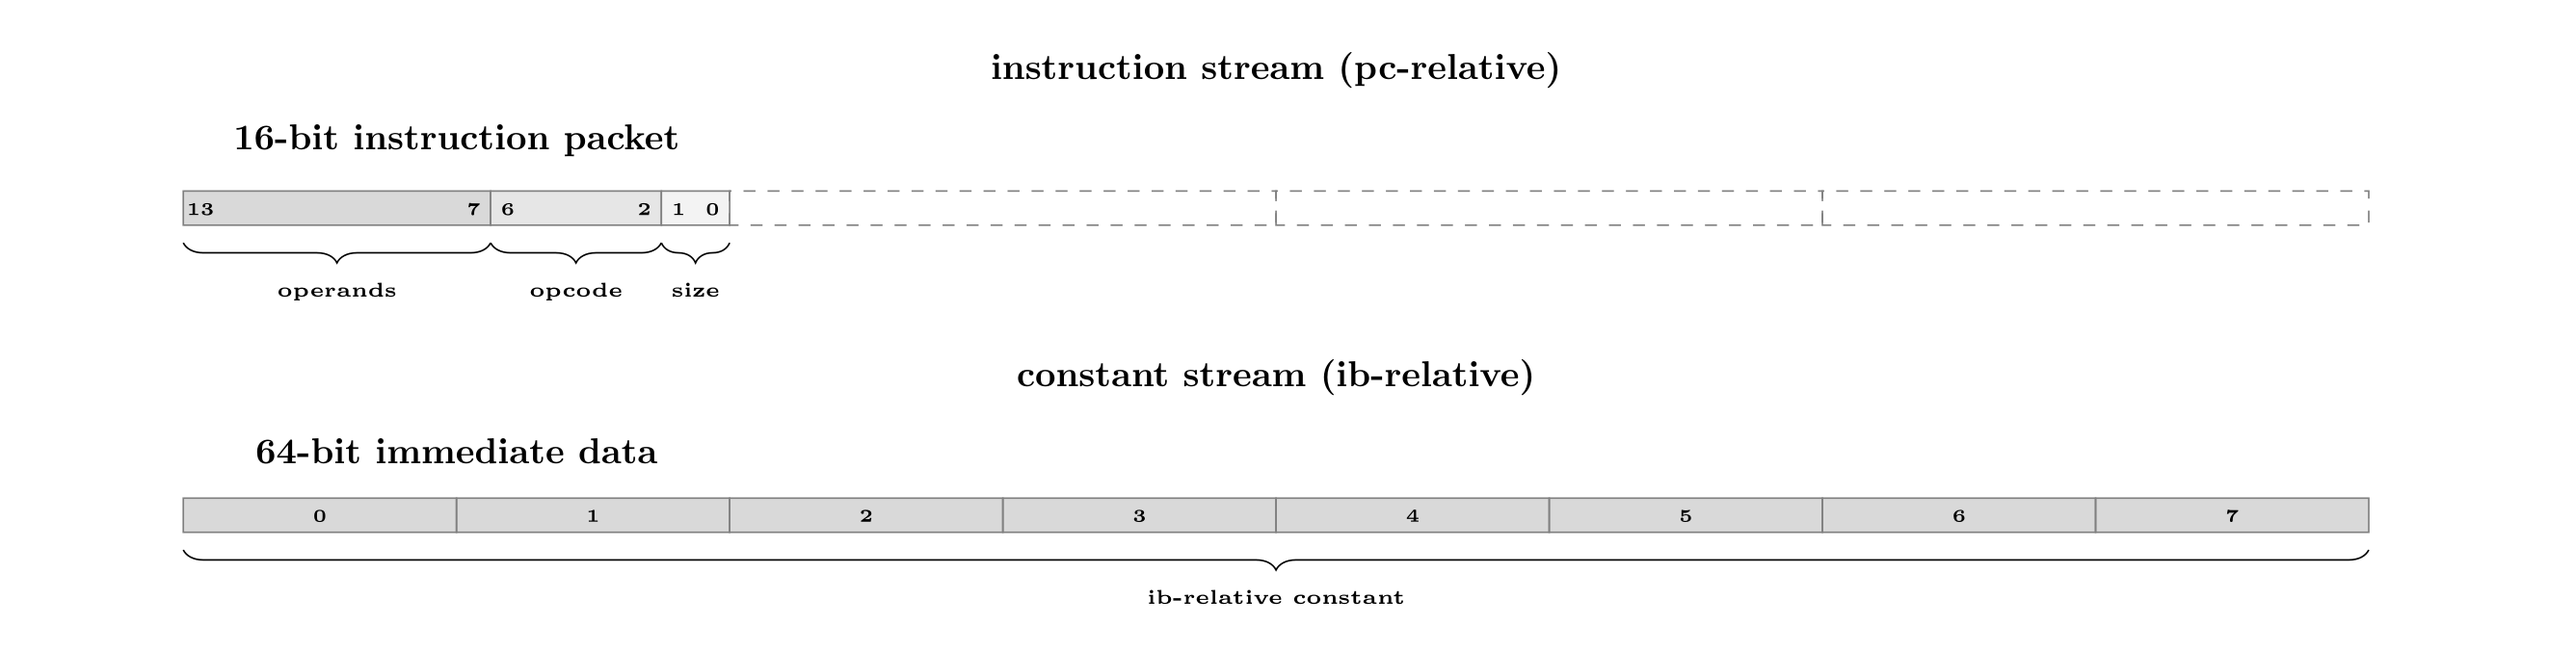
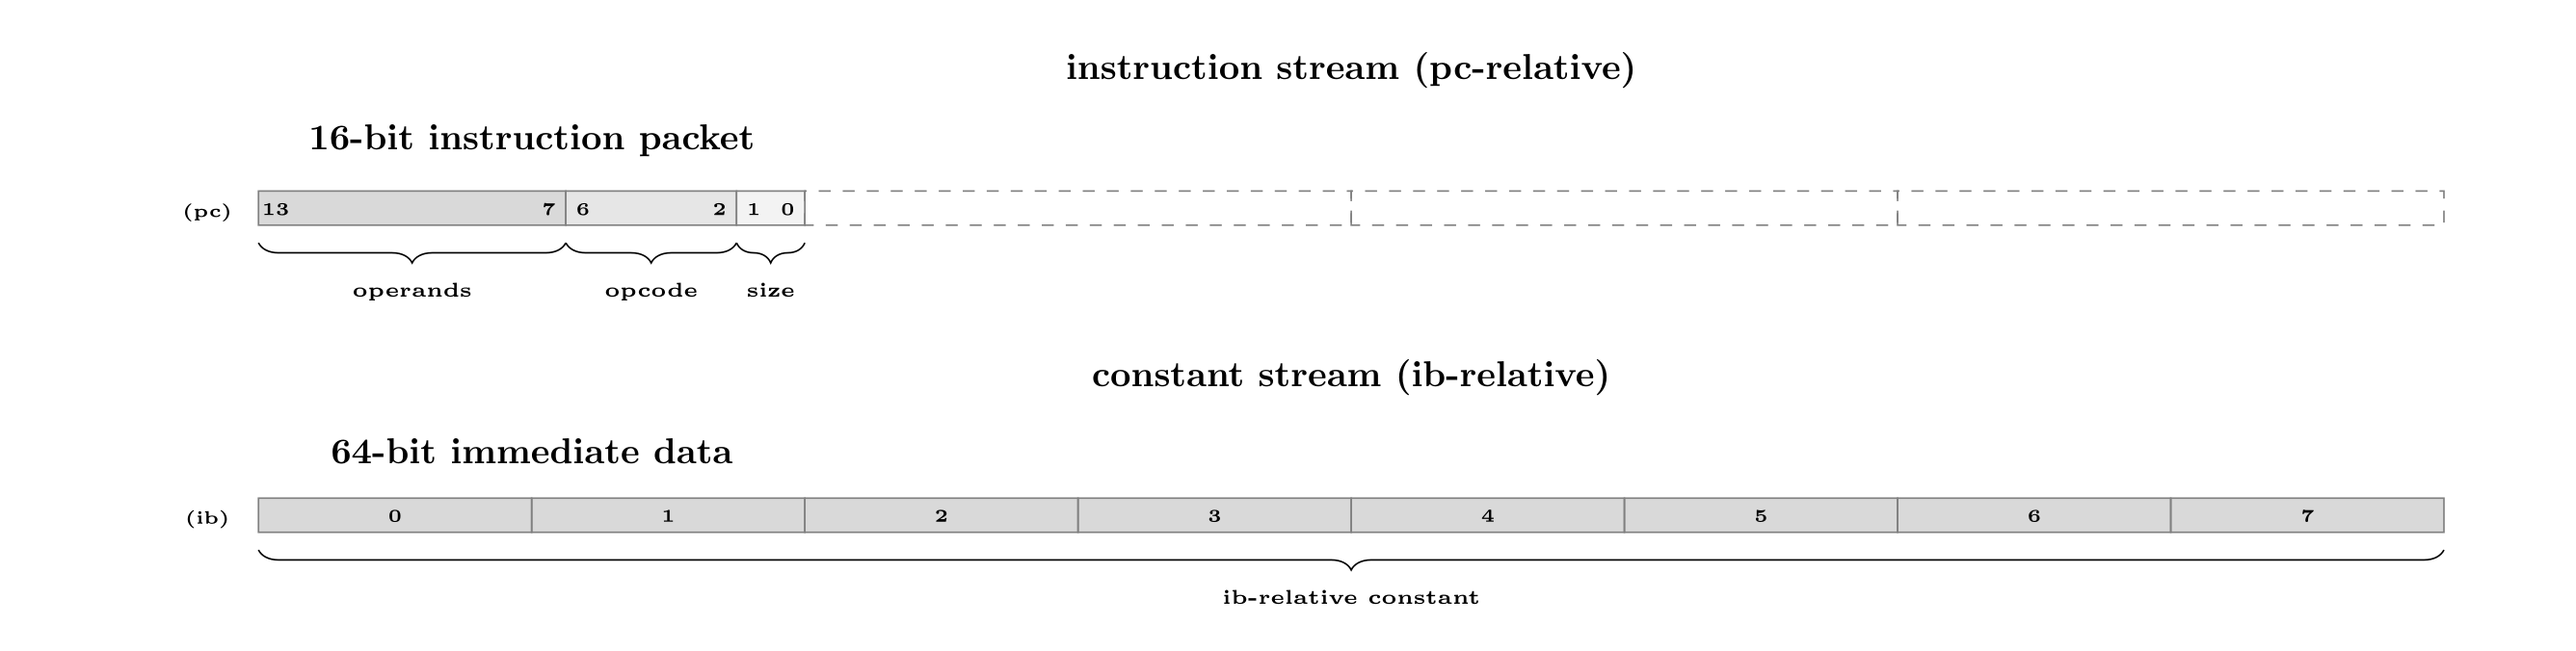
add (pc) and (ib) markers to concept image

diff --git a/doc/concept.tex b/doc/concept.tex
@@ -19,6 +19,8 @@
 \node [above,scale=0.9,anchor=south] at (32,4)  {\textbf{instruction stream (pc-relative)}};
 \node [above,scale=0.9,anchor=south] at (8,2)  {\textbf{16-bit instruction packet}};
 
+\node [font=\tiny,below,scale=0.9,anchor=north] at (-1.5,0.66)  {$\textbf{(pc)}$};
+
 \fill [black!15] (0,0)    rectangle (9,1);
 \draw [black!50] (0,0)    rectangle (9,1);
 \node [font=\tiny,below,scale=0.9,anchor=north] at (0.5,0.66)  {$\textbf{13}$};
@@ -49,6 +51,8 @@
 
 \node [above,scale=0.9,anchor=south] at (32,-5)  {\textbf{constant stream (ib-relative)}};
 \node [above,scale=0.9,anchor=south] at (8,-7)  {\textbf{64-bit immediate data}};
+
+\node [font=\tiny,below,scale=0.9,anchor=north] at (-1.5,-8.33)  {$\textbf{(ib)}$};
 
 \foreach \x in {0,1,2,3,4,5,6,7}
   \fill [black!15] (\x*8,-9)    rectangle (\x*8+8,-8);
